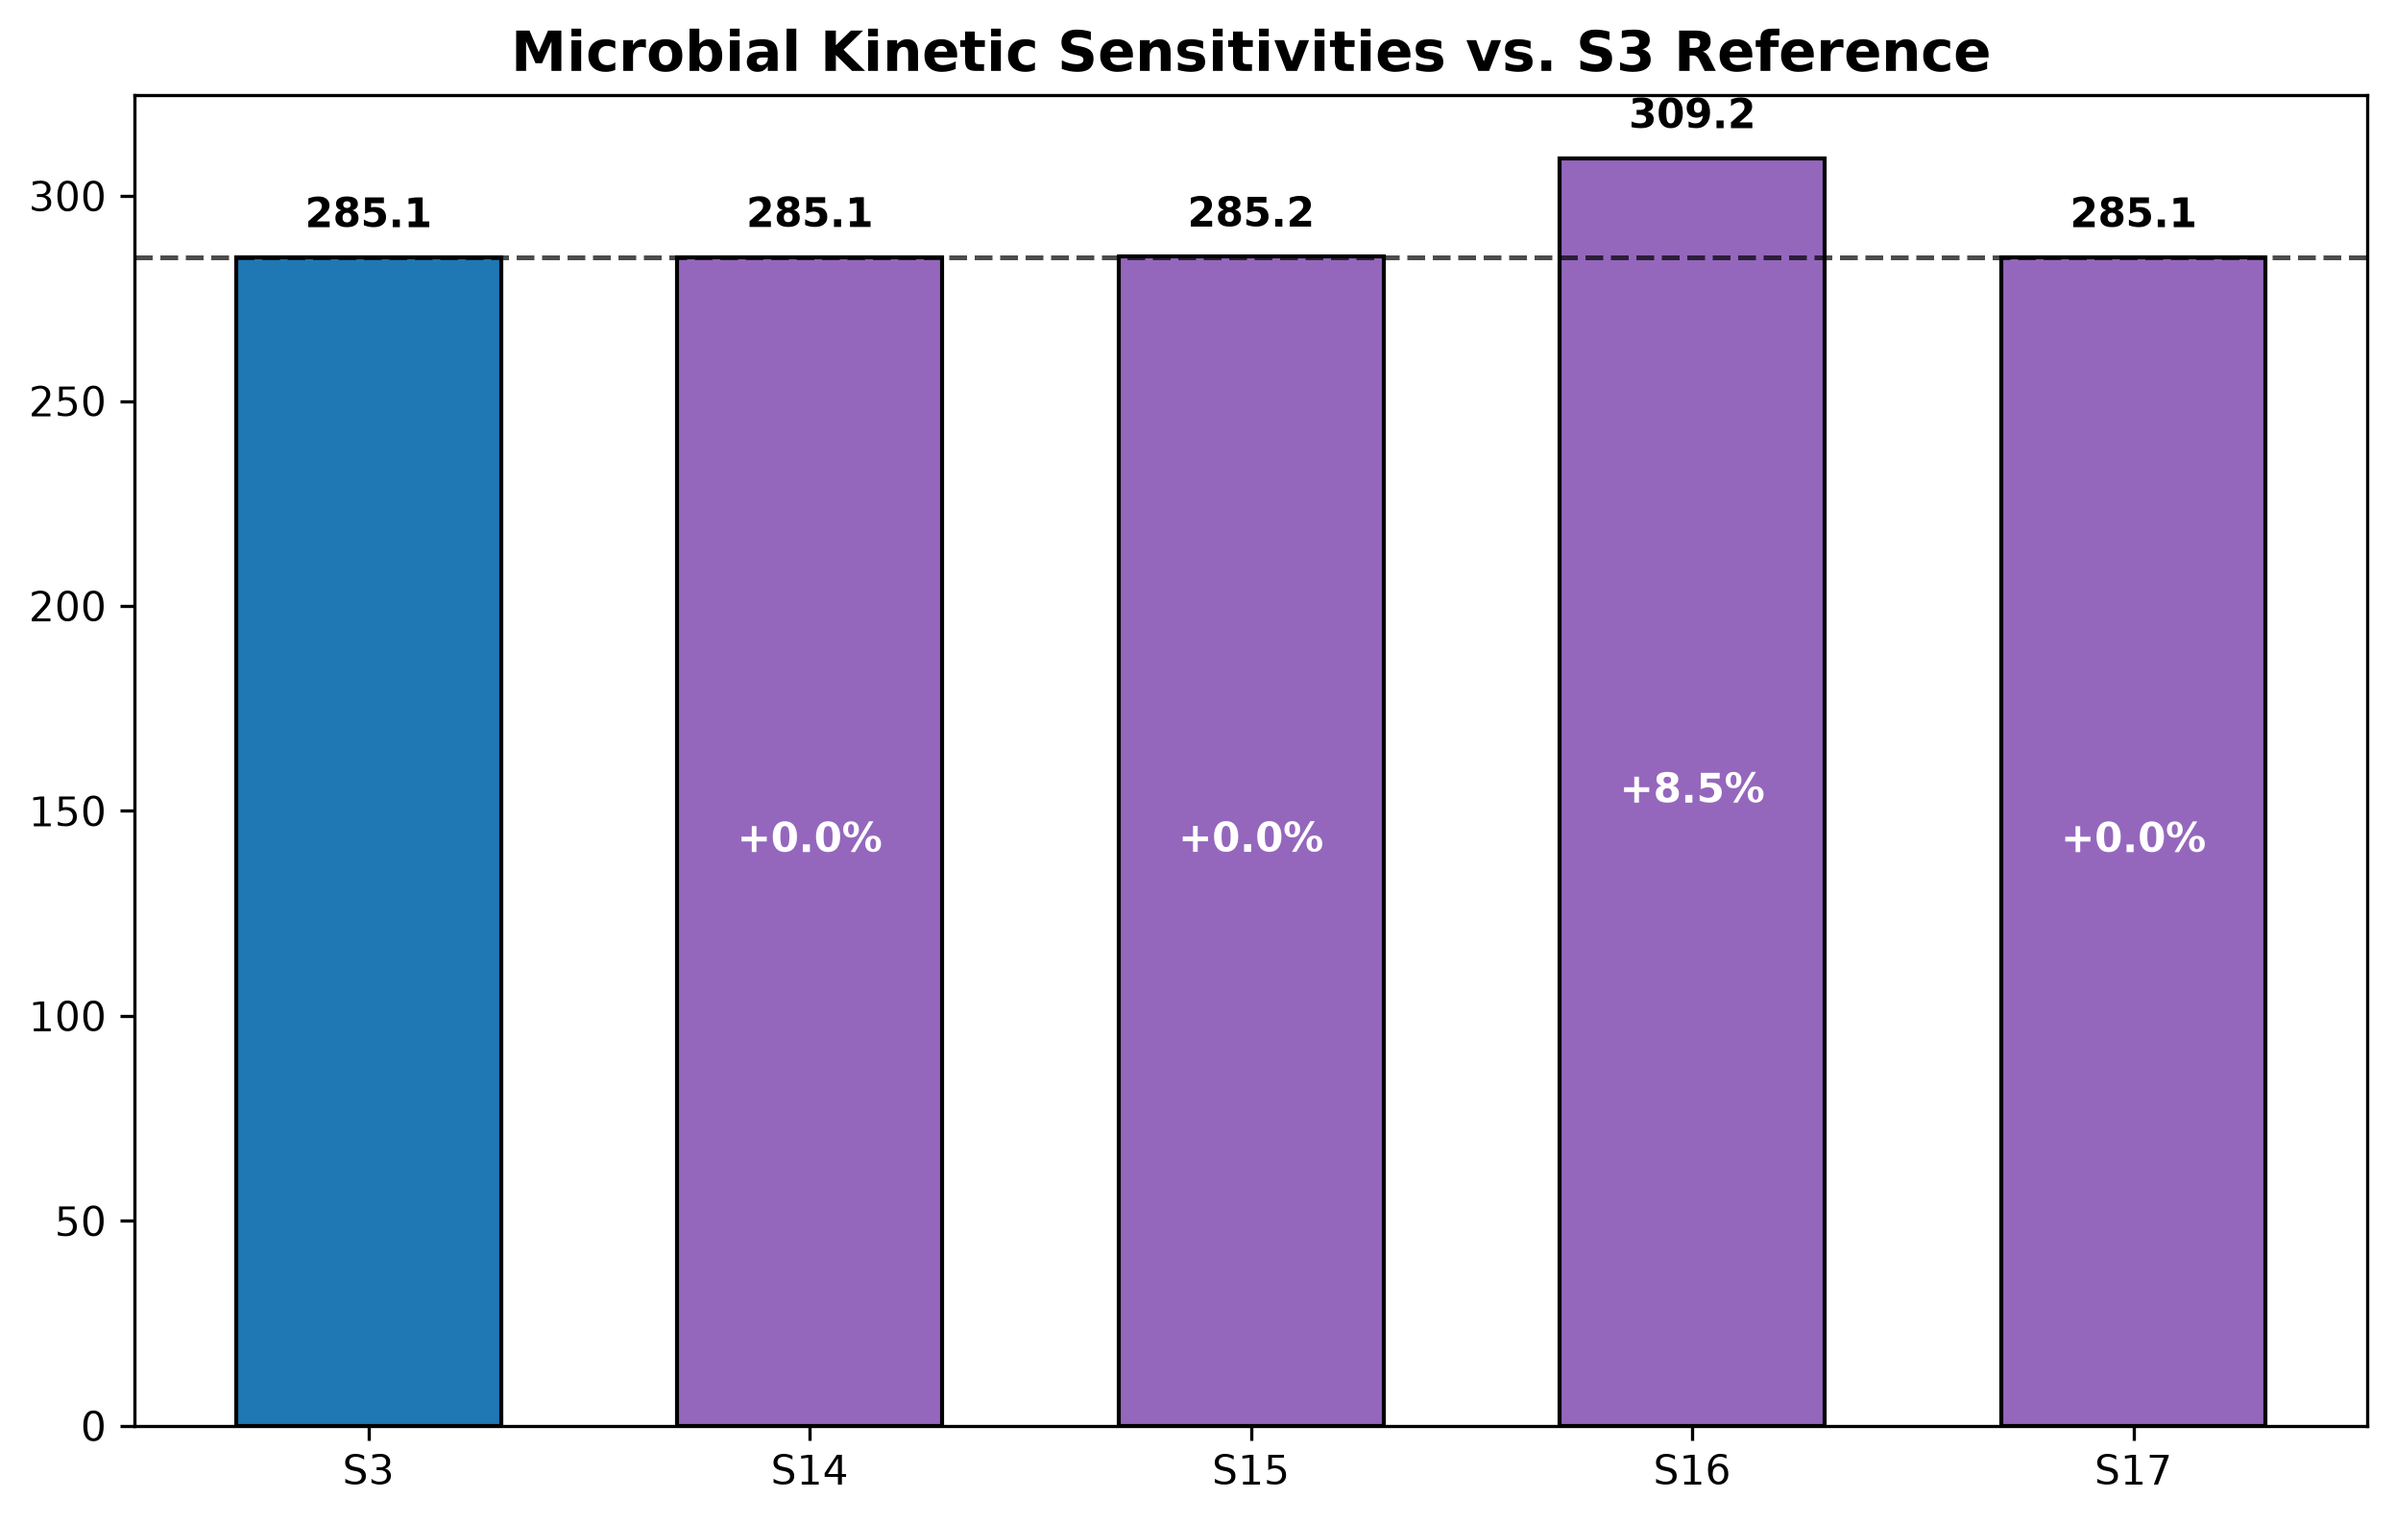
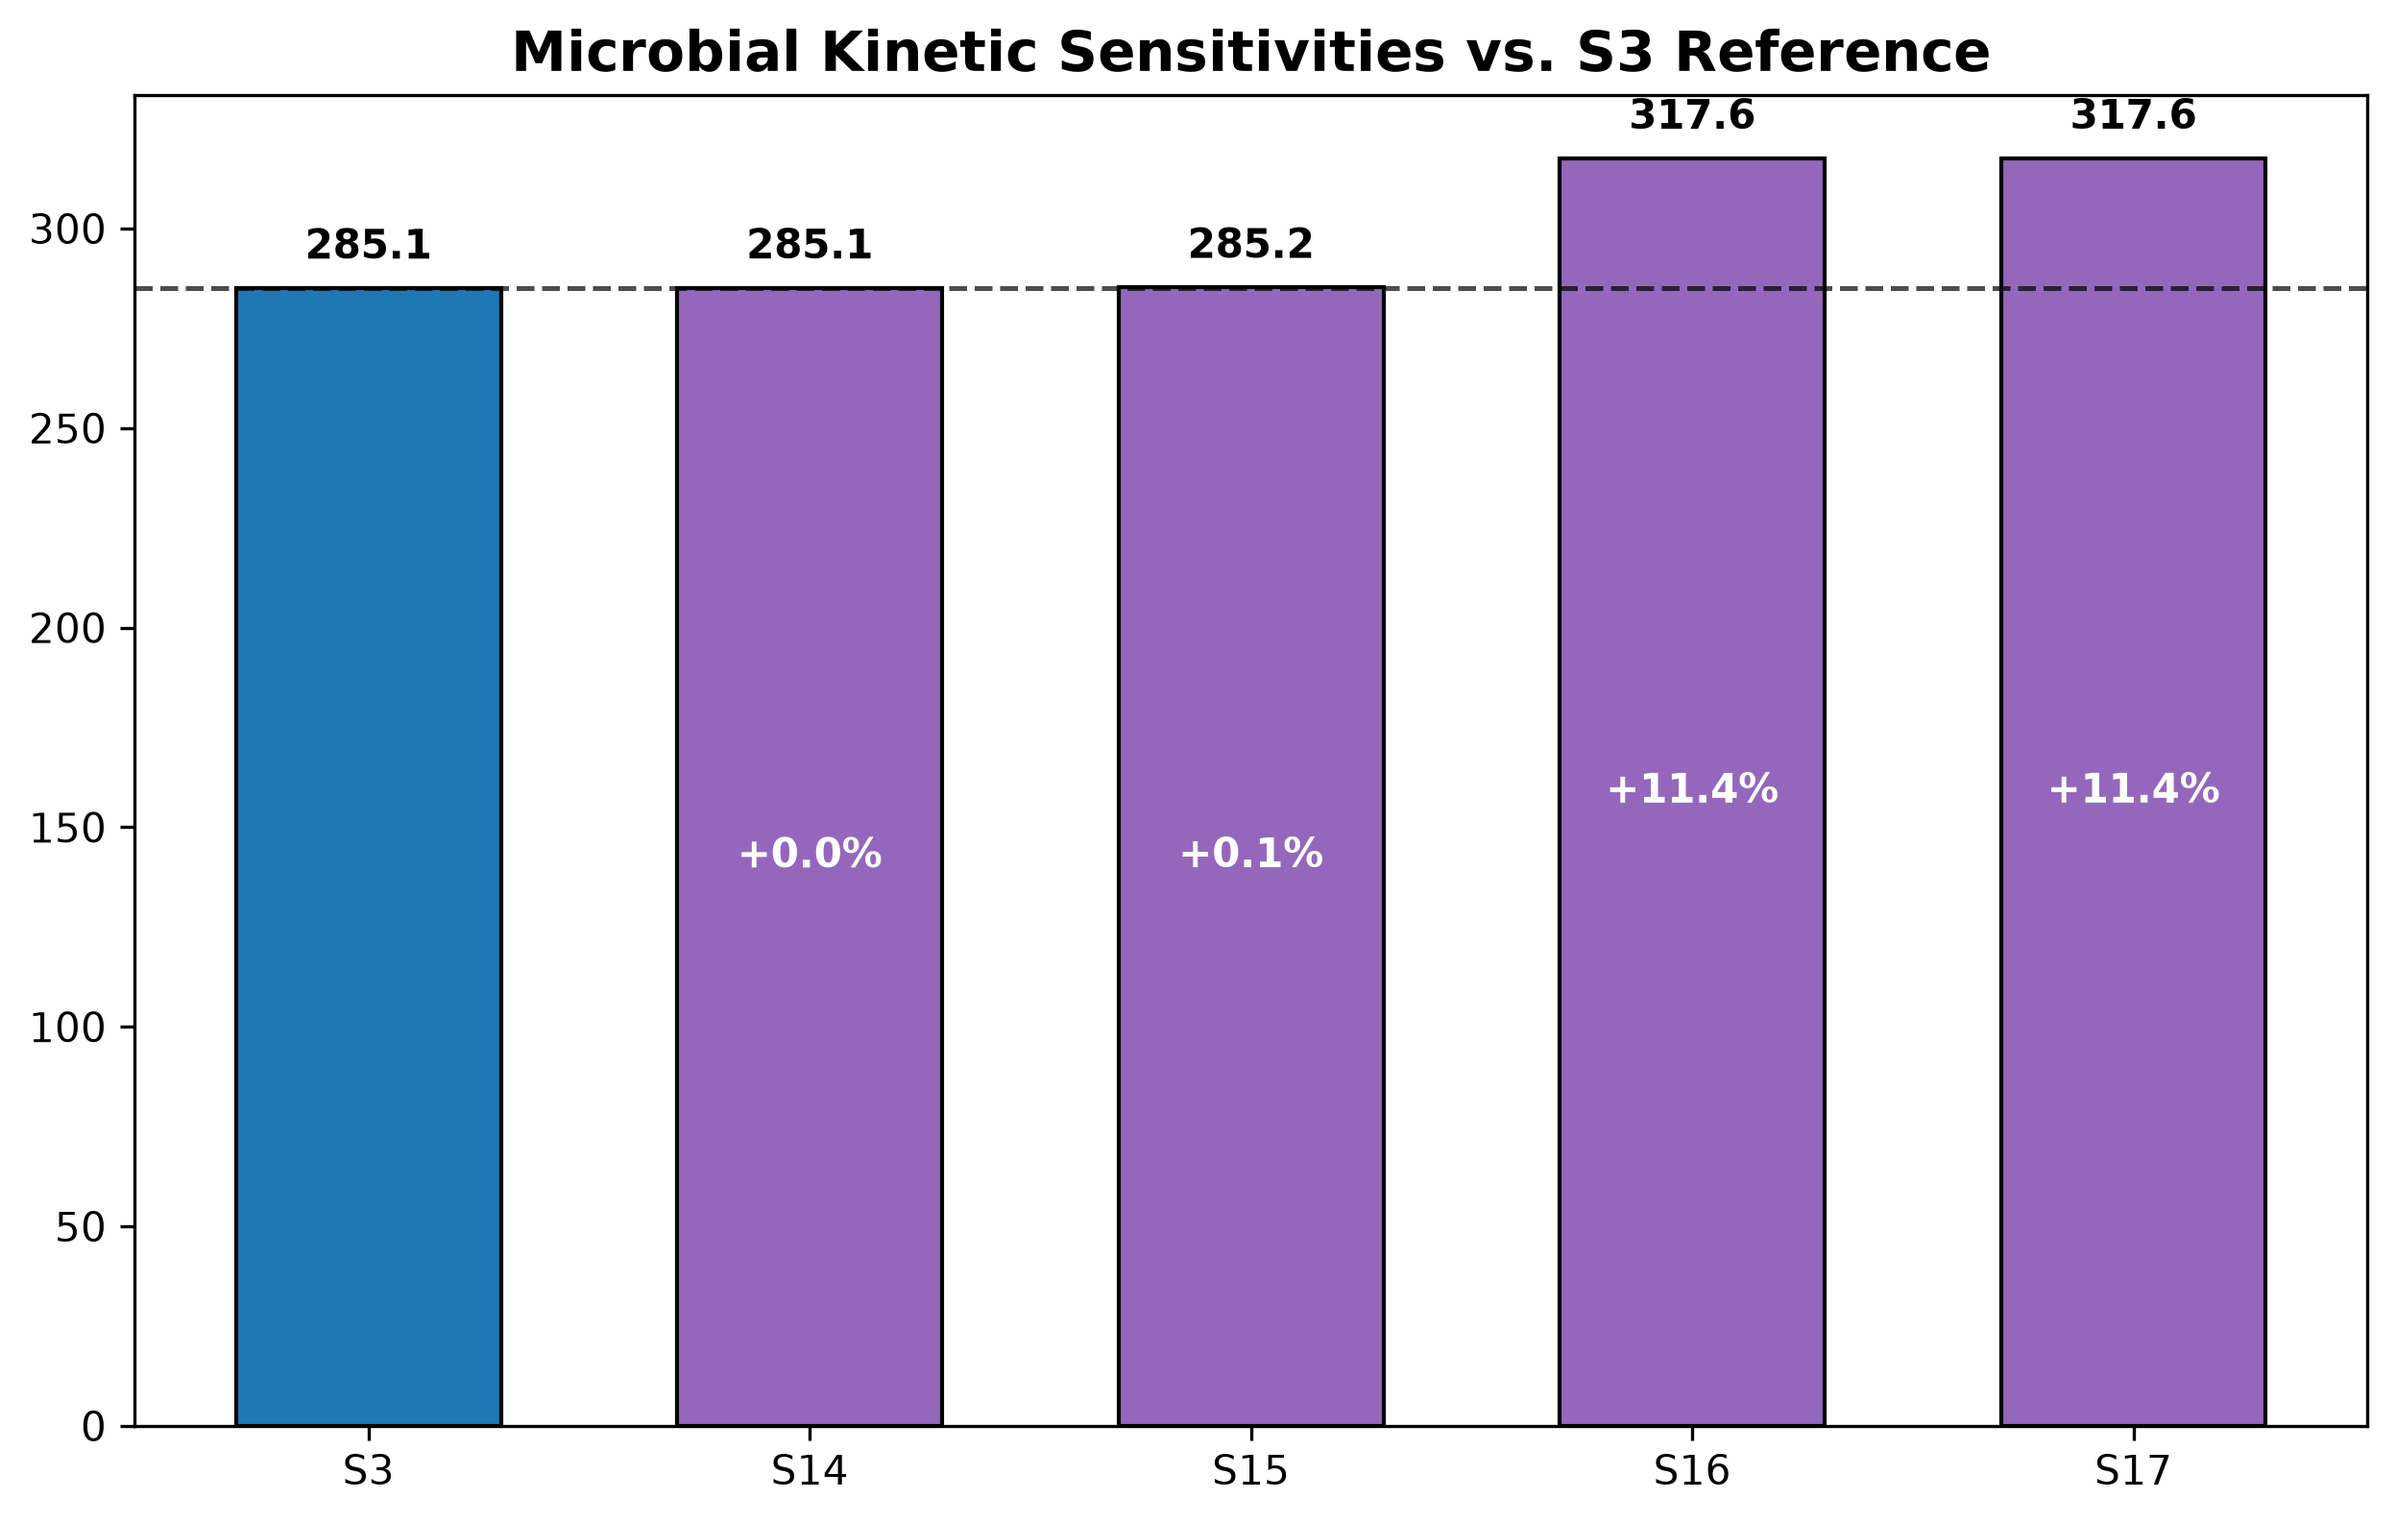
added visualisations to S14-S17

diff --git a/utils/visualisations.py b/utils/visualisations.py
@@ -193,3 +193,52 @@ def plot_microbial_oat_comparison(df_results, output_dir="output"):
     plt.title('Microbial Kinetic Sensitivities vs. S3 Reference', fontsize=14, fontweight='bold')
     plt.savefig(os.path.join(output_dir, "oat_microbial_comparison.png"), dpi=300, bbox_inches='tight')
     plt.close()
+
+def plot_composition_gompertz_curves(scenario_curves, output_dir="output"):
+    target_scenarios = ['S3', 'S10', 'S11', 'S12', 'S13']
+    
+    plt.figure(figsize=(12, 7))
+    
+    for scenario_id in target_scenarios:
+        if scenario_id in scenario_curves:
+            data = scenario_curves[scenario_id]
+            if scenario_id == 'S3':
+                plt.plot(data["time"], data["methane"], label=f'{scenario_id} (Reference)', linewidth=2, linestyle='--', color='black')
+            else:
+                plt.plot(data["time"], data["methane"], label=f'{scenario_id}', linewidth=2)
+
+    plt.xlabel('Digestion Time (Days)', fontsize=12, fontweight='bold')
+    plt.ylabel('Cumulative Methane (Nm³)', fontsize=12, fontweight='bold')
+    plt.title('Cumulative Methane Production (Composition OAT vs S3)', fontsize=14, fontweight='bold')
+    
+    plt.legend(fontsize=10, loc='lower right')
+    plt.grid(True, linestyle='--', alpha=0.7)
+
+    plot_path = os.path.join(output_dir, "composition_gompertz_curves.png")
+    plt.savefig(plot_path, dpi=300, bbox_inches='tight')
+    plt.close()
+
+
+def plot_microbial_ode_curves(scenario_curves, output_dir="output"):
+    target_scenarios = ['S3', 'S14', 'S15', 'S16', 'S17']
+    plt.figure(figsize=(12, 7))
+
+    for scenario_id in target_scenarios:
+        if scenario_id in scenario_curves:
+            data = scenario_curves[scenario_id]
+            if scenario_id == 'S3':
+                # S3 remains the empirical Gompertz reference
+                plt.plot(data["time"], data["methane"], label=f'{scenario_id} (Gompertz Baseline)', linewidth=2, linestyle='--', color='black')
+            else:
+                # S14-S17 are generated by the ADM1 ODE solver
+                plt.plot(data["time"], data["methane"], label=f'{scenario_id} (Mechanistic ODE)', linewidth=2)
+
+    plt.xlabel('Digestion Time (Days)', fontsize=12, fontweight='bold')
+    plt.ylabel('Cumulative Methane (Nm³)', fontsize=12, fontweight='bold')
+    plt.title('Dynamic Methane Production (Microbial Kinetic OAT vs S3)', fontsize=14, fontweight='bold')
+    plt.legend(fontsize=10, loc='lower right')
+    plt.grid(True, linestyle='--', alpha=0.7)
+
+    plot_path = os.path.join(output_dir, "microbial_ode_curves.png")
+    plt.savefig(plot_path, dpi=300, bbox_inches='tight')
+    plt.close()

diff --git a/main.py b/main.py
@@ -9,7 +9,7 @@ from AD.feedstock import Feedstock
 from pretreatment.pretreatment import Pretreatment
 from AD.digester import Digester
 
-from utils.visualisations import generate_all_plots, plot_composition_oat_comparison, plot_microbial_oat_comparison
+from utils.visualisations import generate_all_plots, plot_composition_oat_comparison, plot_microbial_oat_comparison, plot_composition_gompertz_curves, plot_microbial_ode_curves
 
 # create an output directory for CSVs and plots if it doesn't exist
 os.makedirs("output", exist_ok=True)
@@ -83,6 +83,7 @@ def main():
         # m_wet_daily = m_vs_daily / (F_TS * F_VS_TS)
 
         m_wet_daily = 10.0
+        # m_wet_daily = 400.0
         m_vs_daily = m_wet_daily * F_TS * F_VS_TS
 
         # calculate the true OLR based on the fixed wet mass
@@ -163,12 +164,10 @@ def main():
         current_olr_cod = current_olr * cod_vs_ratio
         
         if "target_microbe" in scenario:
-            # mechanistic ODE solver for S14-S17
             dynamic_results = digester.simulate_dynamic_reactor(scenario["hrt"], current_olr_cod)
-            treated_curve = dynamic_results["methane_curve"]
+            # Divide the entire cumulative curve array by 1000 to convert Liters to Nm3
+            treated_curve = dynamic_results["methane_curve"] / 1000.0
             digester.y_ch4_treated = dynamic_results["final_yield"] / 1000.0
-            # reset the kinetic dictionary to base values for the next loop iteration
-            config_dict['MICROBIAL_KINETICS'][target]['k_max'] /= scenario["modifier"]
         else:
             treated_curve = digester.calculate_gompertz_curve(time_array, is_treated=True)
             
@@ -252,6 +251,9 @@ def main():
     plot_composition_oat_comparison(df_results, output_dir="output")
     # OAT microbial kinetic comparison plot (S3 vs S14-S17)
     plot_microbial_oat_comparison(df_results, output_dir="output")
+    plot_composition_gompertz_curves(scenario_curves, output_dir="output")
+    plot_microbial_ode_curves(scenario_curves, output_dir="output")
+    
 
 if __name__ == "__main__":
     main()

diff --git a/AD/digester.py b/AD/digester.py
@@ -287,7 +287,7 @@ class Digester:
         # * DOCUMENTATION FOR ODE: https://jdbburg.com/classes/Sp24Phy5300-JB/notebooks/Reference/ODEs_with_solve_ivp.html
 
         # integration timeframe
-        sim_days = hrt * 10 # arbitrary value to get ODE running
+        sim_days = hrt * 4 # arbitrary value to get ODE running
         t_span = (0, sim_days)
         t_eval = np.linspace(0, sim_days, int(sim_days) + 1)
         
